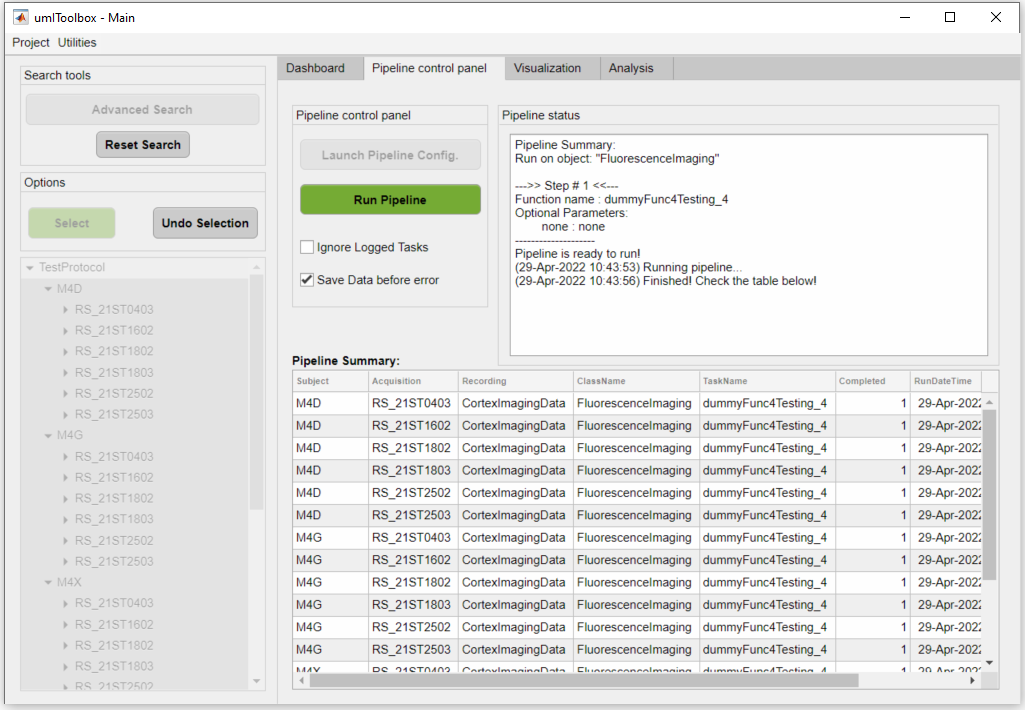
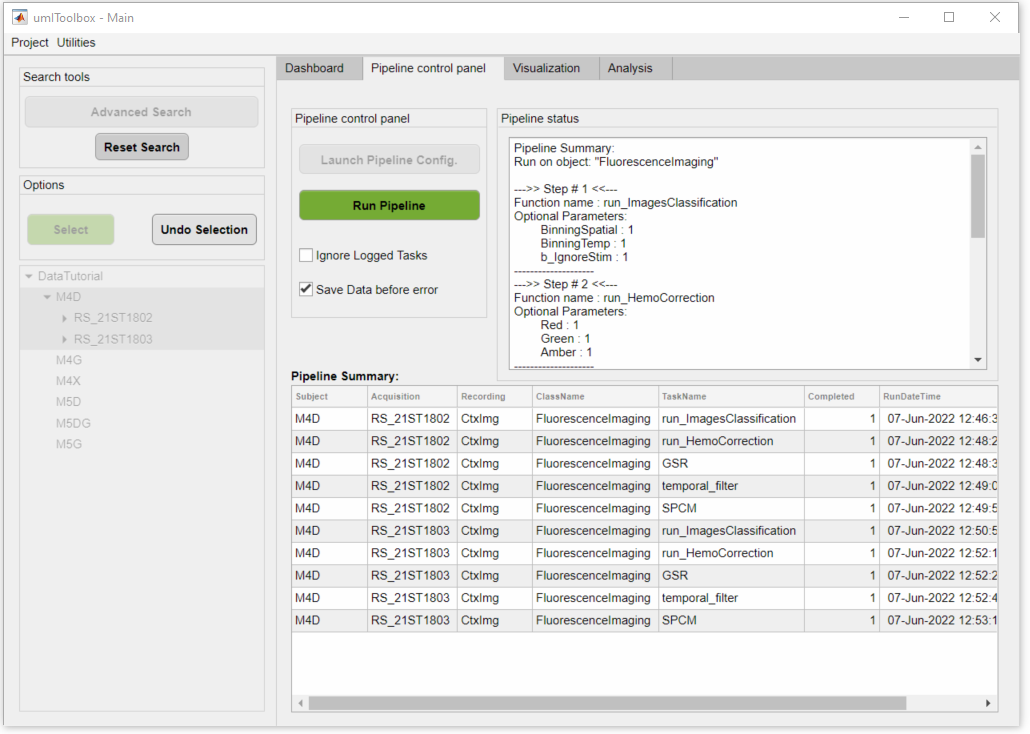
docs: added content

diff --git a/html/docs/tutorials/tt_creating_connectivity_maps.html b/html/docs/tutorials/tt_creating_connectivity_maps.html
@@ -29,7 +29,7 @@
     <hr>
     <ul>
       <li><a href="#select-data"> Select the data</a>: select the data to be processed.</li>
-      <li><a href="#create-pipeline"> Create the analysis pipeline</a>: build the analysis pipeline to be applied to the selected data.</li>
+      <li><a href="#create-pipeline"> Create and run the analysis pipeline</a>: build the analysis pipeline to be applied to the selected data.</li>
     </ul>
     <h3 id="select-data">Select the data to be processed</h3>
     <hr>
@@ -80,11 +80,15 @@
       For more details on how to use the <i>Pipeline Configuration</i> app, click <a href="#">here</a>.
     </p>
     <p>
-      The exclamation point <samp>(!)</samp> shown before the function's name, indicate that the given function has optional parameters that can be customized. In this case, we will change the frequency cut-off values for the <samp>temporal_filter</samp> function to filter our data between <b>0.3</b> and <b>3Hz</b>:
+      The exclamation point <samp>(!)</samp> shown before the function's name, indicate that the given function has optional parameters that can be customized. In this case, we will change the parameters of two functions: <i>temporal_filter</i> and <i>SPCM</i>. For the <i>temporal_filter</i> function, we will change the frequency cut-off values for the <samp>temporal_filter</samp> function to filter our data between <b>0.3</b> and <b>3Hz</b> and we set the <i>Normalize</i> parameter to <b>1</b> to normalize the data as &#916;F/F:
     </p>
     <img src="../assets/img/mainGUI_pipeline_setopts.png" alt="mainGUI_pipeline_setopts">
     <p>
-      Now that the analysis pipeline is built,it can be saved by clicking on the button <i>Save to file...</i>. In this case, since the data consists of multi-channel recordings, the app will ask for the channel name (<i>fluo.dat</i>) to be the input for the function <samp>GSR</samp>:
+      As for the <i>SPCM</i> function, we will apply the Z-Fisher transformation of the correlation data as:
+    </p>
+    <img src="../assets/img/mainGUI_pipeline_setoptsSPCM.png" alt="mainGUI_pipeline_setoptsSPCM">
+    <p>
+      Now that the analysis pipeline is built, we can save it by clicking on the button <i>Save to file...</i>. In this case, since the data consists of multi-channel recordings, the app will ask for the channel name (<i>fluo.dat</i>) to be the input for the function <samp>GSR</samp>:
     </p>
     <img src="../assets/img/mainGUI_pipeline_selectfirstinput.png" alt="mainGUI_pipeline_selectfirstinput", height="500">
     <p>
@@ -95,12 +99,34 @@
       A <i>.JSON</i> file will be saved in the folder <i>PipelineConfigFiles</i> inside the project's <i>save directory</i>:
     </p>
     <img src="../assets/img/mainGUI_pipeline_pipelinesavemsg.png" alt="mainGUI_pipeline_pipelinesavemsg">
-
-
-
-
-
-
-
+    <p>
+      The pipeline is ready to be applied! Here is a summary of the steps:
+    </p>
+    <ol>
+      <li><i>run_ImagesClassification</i>: imports the binary data and saves each recording channel in a separate .dat file.</li>
+      <li><i>run_HemoCorrection</i>: uses all reflectance channels (i.e. red, green and amber) to subtract the hemodynamic signal from the fluorescence data.</li>
+      <li><i>GSR</i>: performs a global signal regression of the fluorescence data to remove global signal variance.</li>
+      <li><i>temporal_filter</i>: performs a temporal band-pass filter between 0.3 and 3Hz and normalizes the data as &#916;F/F. </li>
+      <li><i>SPCM</i>: Calculates a pixel-based correlation (<b>S</b>eed<b> P</b>ixel <b>C</b>orrelation <b>M</b>ap and applies the Z-Fisher transformation to the correlation values.</li>
+    </ol>
+    <p>
+      Finally, click on the green button <i>Save Config</i> to confirm:
+    </p>
+    <img src="../assets/img/mainGUI_pipeline_clickonsave.png" alt="mainGUI_pipeline_clickonsave", width = "660">
+    <p>
+      In the main GUI, a summary of the pipeline is displayed in the <i>Pipeline status</i> panel. To run the pipeline on the selected data, simply click on the green button <i>Run Pipeline</i>.
+    </p>
+    <img src="../assets/img/mainGUI_pipeline_pipeisready.png" alt="mainGUI_pipeline_pipeisready", width="660">
+    <p>
+      Two progress bars are displayed showing the progress of the pipeline across the selected objects:
+    </p>
+    <img src="../assets/img/mainGUI_pipeline_progressbar.png" alt="mainGUI_pipeline_progressbar", width = "660">
+    <p>
+      At the end of the execution of the pipeline, a summary table is displayed showing the information of each step of the pipeline. Use this table to spot failed steps and to retrieve error messages for later troubleshooting:
+    </p>
+    <img src="../assets/img/mainGUI_pipeline_summarytab.png" alt="mainGUI_pipeline_summarytab", width="660">
+    <p>
+      The seed-pixel correlation maps created by the pipeline are stored in the file <samp>SPCMap.dat</samp>. Click <a href="#">here</a> to learn how to explore the data!
+    </p>
   </body>
 </html>

diff --git a/html/css/master.css b/html/css/master.css
@@ -19,7 +19,6 @@
   background: #f6f6f6;
   display: table;
 }
-
 .stringformat{
   color: #A020F0
 }
